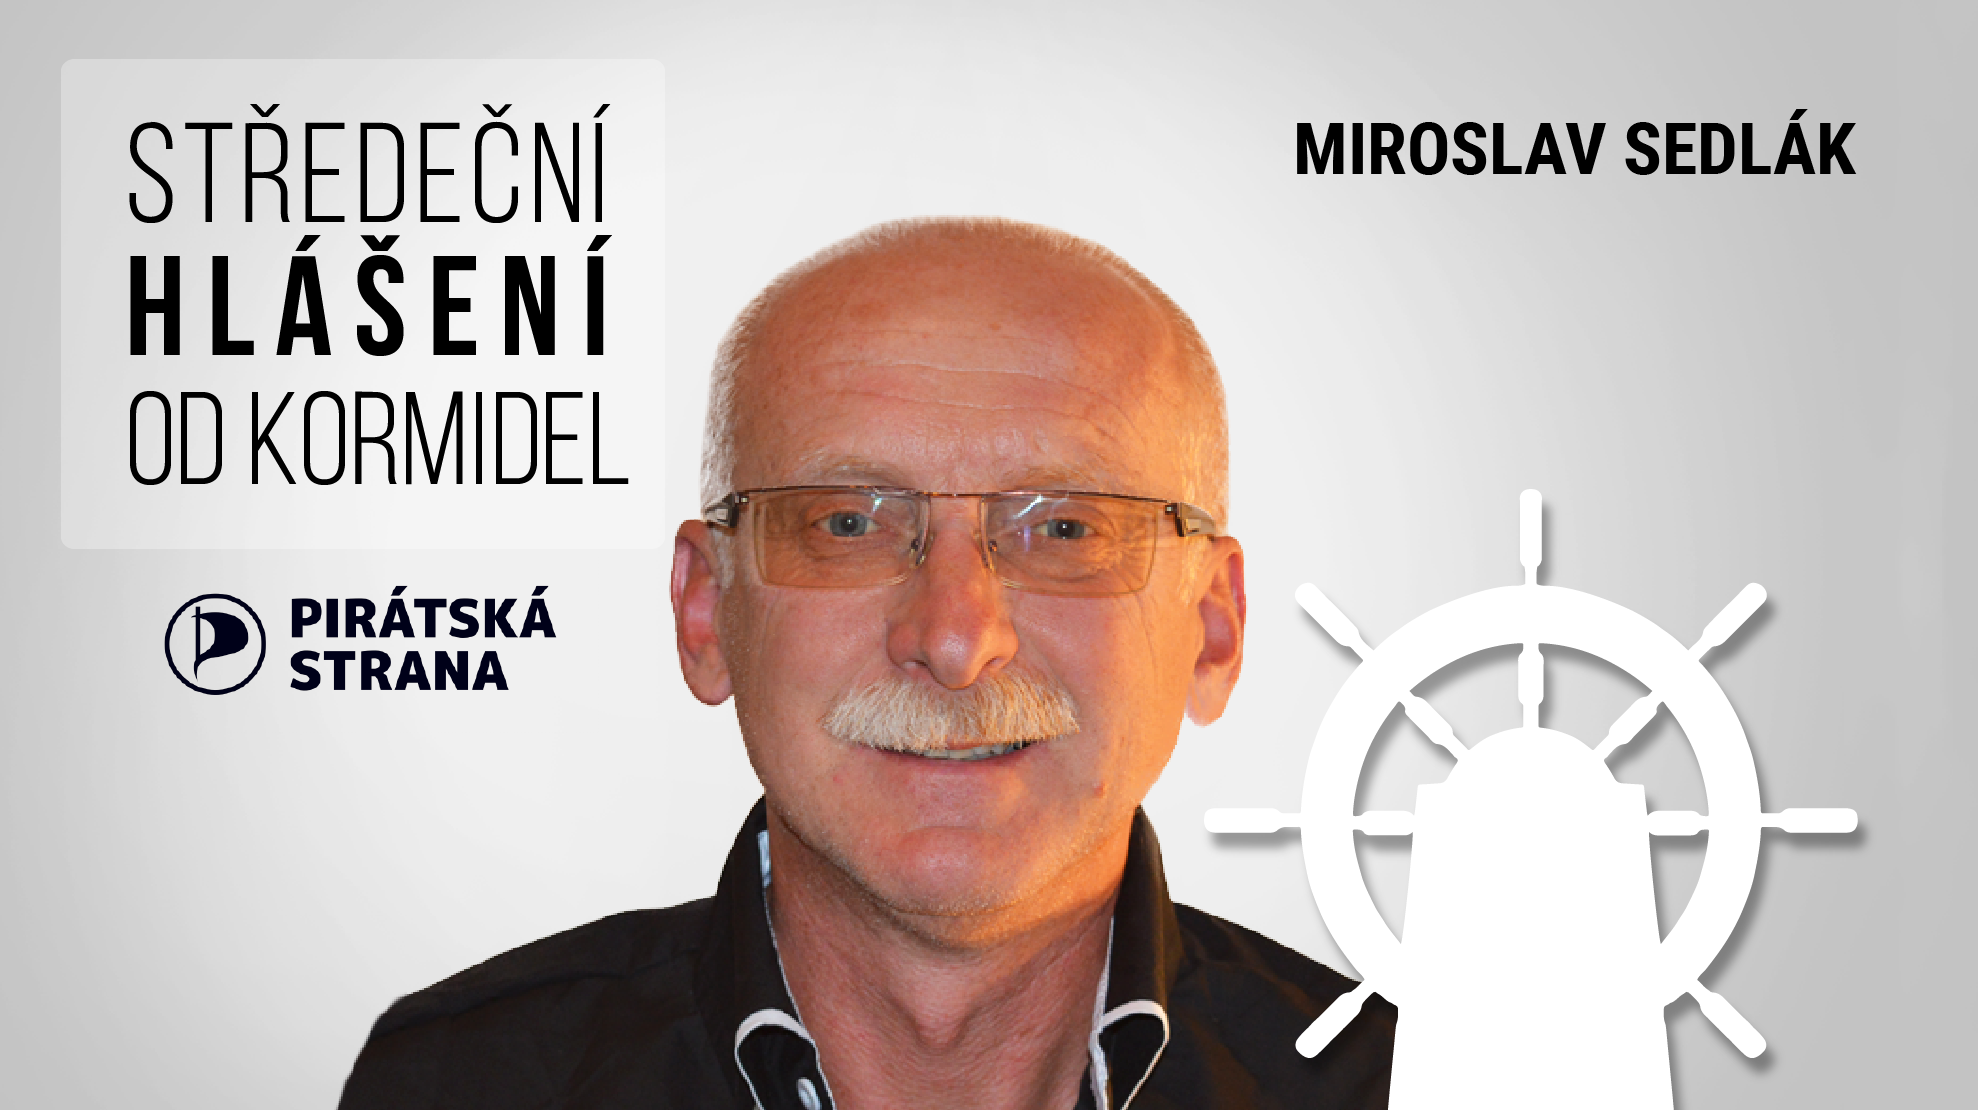
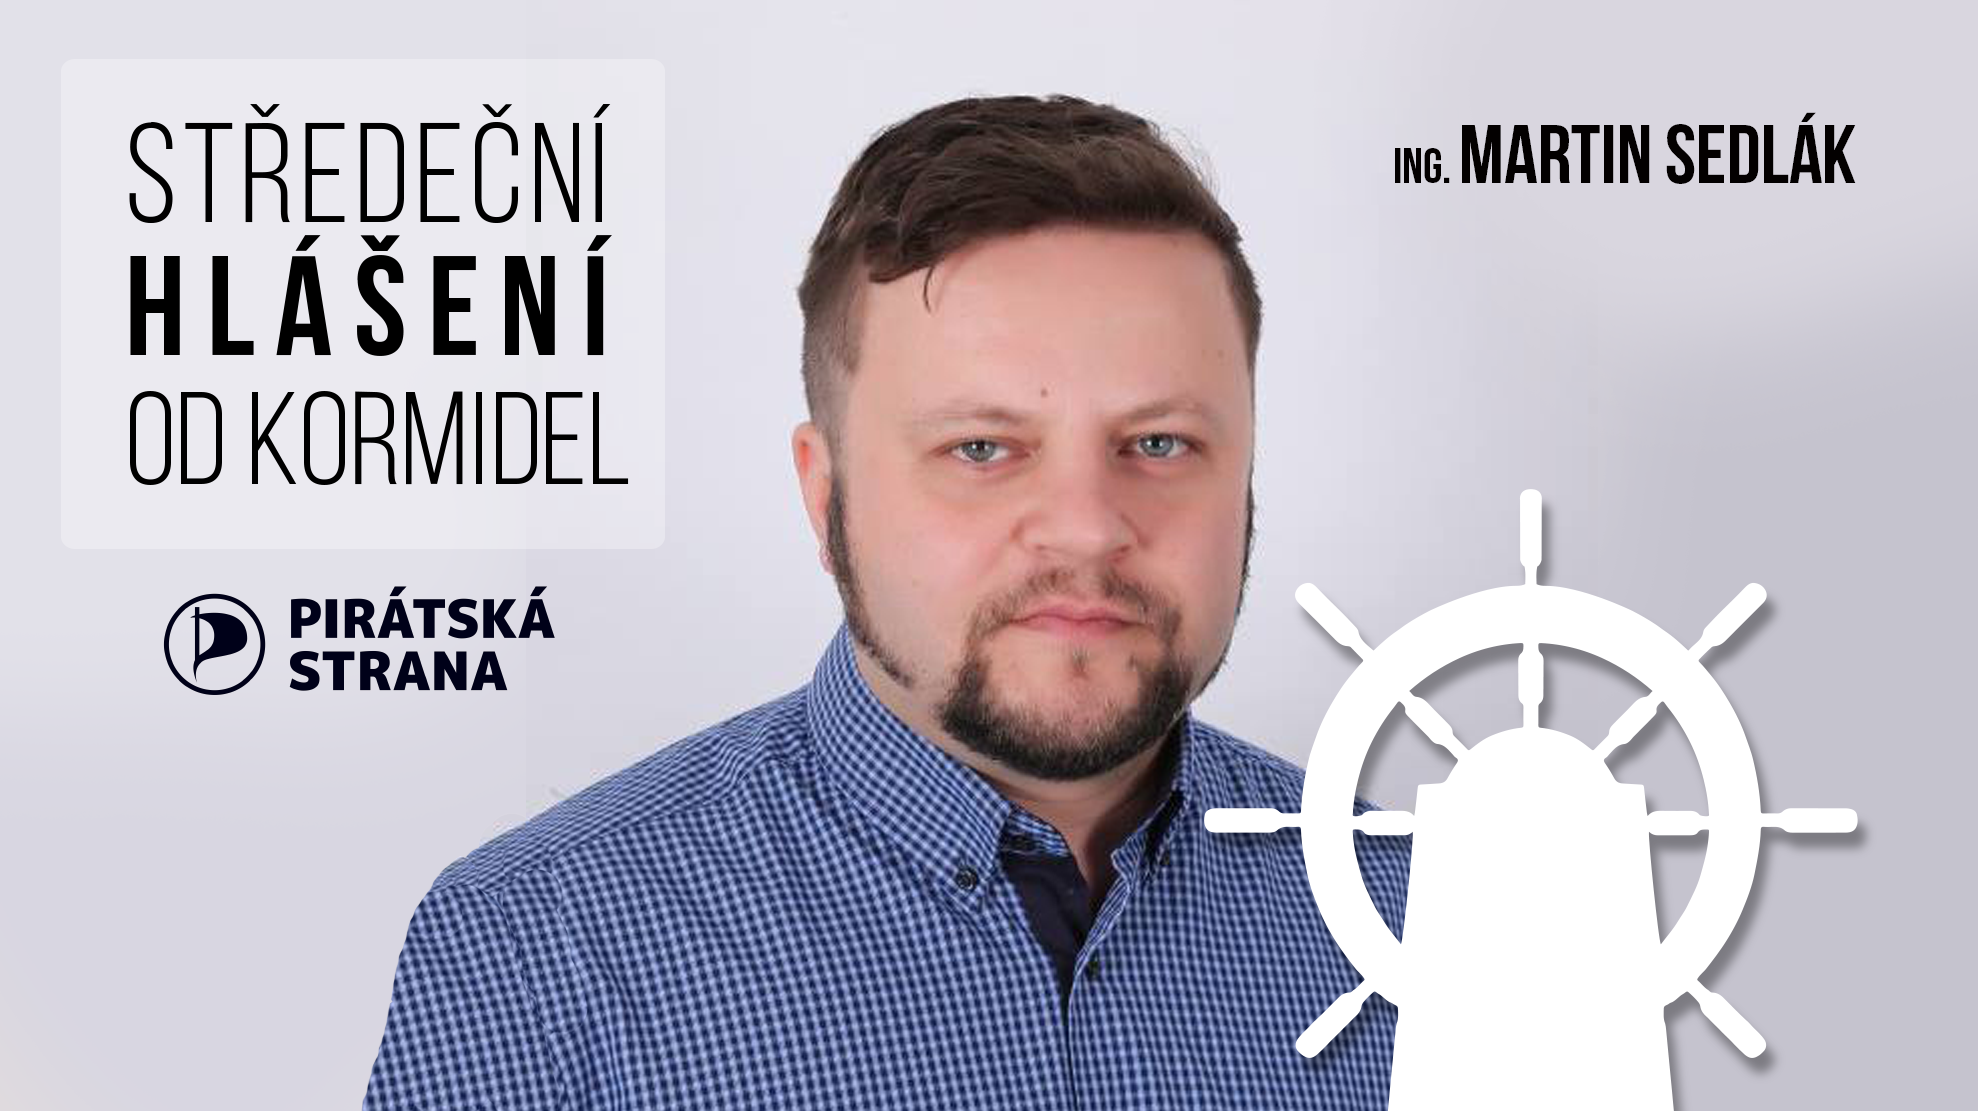
martin sedlak kormidla (#151)
* Martin Sedlák - kormidla

* martin sedlak - kormidla - obrazky

diff --git a/_posts/2019/2019-09-18-str-hlaseni-od-kormidel-martin-sedlak.md b/_posts/2019/2019-09-18-str-hlaseni-od-kormidel-martin-sedlak.md
@@ -1,0 +1,81 @@
+---
+layout: post
+category: CLANKY
+title: Martin Sedlák - Slovo politik se stalo sprostým, český národ se bojí rozhodovat sám o sobě 
+date: 2019-09-17T14:00:00+0200
+tags: 
+    - rozhovor
+    - zastupitel
+author: Piráti Pardubického kraje
+image: articles/2019/rozhovory/msedlak/msedlak1.png
+---
+**Ve volném čase je basistou v punkové kapele N.V.Ú., v pracovním životě se věnuje podnikání a je radním v Moravské Třebové. V zastupitelstvu města je jediným Pirátem v koalici. Z této pozice se zaměřuje na vytváření dostupného bydlení, podporu podnikání nebo zvýšení transparentnosti radnice. Spolu s tím stíhá pravidelně organizovat koncerty a festivaly. Více se dozvíte v rozhovoru s Martinem.**
+  
+**Jsi starý punker, hraješ na basu v kapele N.V.Ú. a ještě k tomu radní v Moravské Třebové za Piráty. To je celkem široký záběr. Kromě toho podnikáš. Máš nějaký recept, jak si zorganizovat čas a nezbláznit se?**
+
+Bohužel nemám a je to vše dohromady velmi náročné na čas a vše nelze dělat na 100%, což není ideální stav. :)
+
+**Jak se to stane, že se z koncertních pódií vrhne člověk do komunální politiky? A co bylo impulzem pro spolupráci s Českou pirátskou stranou?**
+
+To asi není úplně přesné. Ačkoli je kapela N.V.Ú. koncertně velmi vytížená, tak stále jde jen o koníček, který tak trošku přerostl v poslání. Největší podíl času logicky zabírá moje podnikání, jelikož se pohybuji v restauračním podnikání. Nedá se říci, že bych se vrhl do komunální politiky, ale spíše jsem byl osloven tehdejším lídrem, který se v našem městě pokoušel sestavit pirátskou kandidátku, což bylo i impulzem pro tuto spolupráci. ČPS jsem po očku sledoval již delší dobu a s řadou témat či názorů jsem se ztotožňoval. To rozhodnutí tedy bylo nasnadě.
+
+Moravská Třebová byla po mnoho let pod vlivem „rudooranžové“ koalice, reprezentované „starou gardou“, což se postupem času z mého pohledu negativně projevovalo i na chodu města v různých oblastech. Rozvinul se zde značný klientelismus, netransparentní výběrová řízení, město celkově začalo zaostávat za regionem, což je u MT obrovská škoda, vzhledem k její významné historii, zažíváme odliv mladých a kvalifikovaných lidí, chybí bydlení, pracovní místa pro kvalifikované, kultura na bodu mrazu apod.
+
+Osobně jsem se účastnil několika výběrových řízení a mohl jsem si to empiricky vyzkoušet na vlastní kůži. Asi to nejvýznamnější bylo VŘ na ředitele kulturních služeb, kterému jsem obětoval hodně a které jsem vyhrál u výběrové komise, ale tehdejší rada města to smetla bez rozumného vysvětlení ze stolu, aby dva roky na to mohla dosadit „za zásluhy“ radní za KSČM, jelikož můj protikandidát v této pozici neuspěl, což se dalo vzhledem k jeho kvalifikaci předpokládat.
+
+To vše bylo impulzem podpořit kandidátku ČPS v Moravské Třebové.
+
+**Jako jediný pirátský element v zastupitelstvu jsi členem vládnoucí koalice. Jak se ti vyjednává s kolegy na radnici, když prosazuješ pirátské programové priority?**
+
+Ta pozice je velmi obtížná. S jedním mandátem nezbývá než diskutovat. Nemohu říci, že by kolegové neměli pro některé z pirátských priorit uši, ale z mého pohledu není příliš přínosné prosazovat nebo prosadit jednotlivosti, ale spíše hledat koncepční řešení, což chce čas. Aktuálně se bavíme krom jiného na téma zveřejňování materiálů do zastupitelstva (což už běží), participační rozpočet (také se již rozbíhá), transparentnost výběrových řízení a zveřejňování materiálů k nim, otevřeli jsme téma klikacího rozpočtu atd.
+
+{% asset 'articles/2019/rozhovory/msedlak/msedlak4.jpg' magick:resize='751x422^' 
+magick:gravity='center' magick:crop='751x422+0+0' alt='Martin Sedlak'%}
+
+**Co bys rád, kdyby se ti podařilo ve městě do budoucna prosadit, jaké jsou tvé plány? Máš za sebou už nějaké úspěšné výsledky práce?**
+
+Druhou část otázky jsem asi popsal výše. Chod města bohužel není jednoduchou záležitostí a už vůbec ne pro nováčka v pozici neuvolněného radního. Je nutné řešit řadu palčivých záležitostí důležitých pro běžný chod města krom prosazování volebních priorit.
+
+Veškeré info mám pouze z tisků do rady města a z komunikace s dalšími radními a uředníky. Chci tím říci, že vzhledem k mé vytíženosti v rámci podnikání, kapely, festivalu a rodiny, není možné se řadou témat či oblastí, kdy řada z nich není mou parketou, zabývat podrobněji. To samozřejmě není ideální, ale čas to prostě neumožňuje. Člověk by pro město musel pracovat na plný úvazek, aby to bylo podle mých představ. Mnohem větší přehled, možnosti, čas i zodpovědnost mají uvolnění kolegové.
+
+Co se týká plánů, naše koalice vznikla na základě řady společných cílů, proto budu velmi rád, když se nám podaří prosadit společné priority, mezi které patří dostupné bydlení, lokality a startovací byty v Moravské Třebové, podpora podnikání a vznik kvalifikovaných pracovních míst, zastavení odlivu obyvatel města, oživení kultury a podpora turistického ruchu v MT, zpracování a realizace generelu dopravy, přiblížení a otevřenost radnice lidem a v neposlední řadě zlepšení hospodaření města a hledání rezerv.
+
+**Ve městě provozuješ hudební klub Duku Duku. Začátkem roku kritizovala opozice čerpání dotací na kulturu pro hudební akce v něm, protože jsi prý jako radní ve střetu zájmů. Jak to dopadlo?**
+
+Šlo o zpolitizované téma. Klub má podporu města na live vystoupení umělců téměř od začátku své existence a dokonce bývala i dvojnásobně vyšší než je tomu v současnosti, což je vzhledem k inflaci a růstu nákladů za posledních 15 let velmi smutné. Podpora města je vázána na klub a koncerty v něm, nikoli na mou osobu. Než jsem se stal radním, tak se tím vůbec nikdo nezabýval.
+
+Hlavním kulturním subjektem ve městě jsou Kulturní služby města Moravská Třebová. Bohužel tato instituce a ani město nedisponuje žádným sálem ani podobným zařízením. Klub tedy po mnoho let supluje koncertní zařízení ve městě. Historicky spolupráce s městem vznikla tak, že majitelé přišli s nabídkou profesionálně vybaveného klubu pro konání koncertů a napříč politickým spektrem v zastupitelstvu získali tuto podporu, která trvá až do nynějších dnů.
+
+Já jsem v klubu 12 let a za tu dobu jsem zde uspořádal nespočet koncertů profesionálních i regionálních kapel, čímž se kulturní služby s mnohamilionovým rozpočtem chlubit nemohou. Z mého pohledu je to nejlevnější možná varianta pro město ve smyslu pořádání koncertů na území města mimo letní sezónu (klub má profesionální zvukovou a světelnou aparaturu, koncerty si sjednáváme sami, vzhledem k mým kontaktům za úplně jiné podmínky než by dosáhly např. Kulturní služby, zajišťujeme sami pořadatelskou službu, personál, propagaci, prodej vstupenek apod.). Žádný jiný subjekt na území města nepořádá koncerty a ani neprojevil během let zájem pořádat koncerty v tomto rozsahu. Ono se není čemu divit, protože jde bohužel o značně prodělečnou záležitost. Bez nás by město už dávno přišlo o klubové koncerty. Jsem přesvědčen, že se touto činností významně podílíme na kulturním kreditu města a jde o velmi nedoceněnou činnost.
+
+{% asset 'articles/2019/rozhovory/msedlak/msedlak3.jpg' magick:resize='751x422^' 
+magick:gravity='center' magick:crop='751x422+0+0' alt='Martin Sedlak'%}
+
+**V jaké žiješ sociální bublině a jak se tví známí a rodina dívají na vývoj politické situace v ČR? Aktuálně nám zastavili stíhání Bureše a jeho rodiny…**
+
+Díky svým aktivitám bych řekl, že těch sociálních bublin je více. Ta, která mi je nejblíže, je samozřejmě kolem muziky a festivalu, který spolupořádám. Politika obecně, a to víme všichni, má velmi negativní zvuk téměř v každé sociální bublině a proto velká řada lidí, s kterými se stýkám, buď nadává, nebo politickou situaci ignoruje. Jak říká náš lídr kapely, slovo politik se stalo sprostým slovem a synonymem pro lumpa, zloděje a lháře a Bureš je dokonalým představitelem těchto slov. Je mi líto nebo mi to tak alespoň připadá, že český národ nebo jeho značná část se bojí rozhodovat sama o sobě a raději se nechá slepě vést, a to za jakoukoliv cenu či slib pseudojistot. Ono je to samozřejmě jednodušší než muset každý den o sobě a svém životě rozhodovat sám za sebe. Pravděpodobně to má velká část populace i zakódované vzhledem k minulosti a historii naší země. Jistě nemusím říkat, do kterých voličských řad tím mířím.
+
+**Jak vnímáš současnou situaci Pirátů? Preference nám podle průzkumů stále rostou, ale jsme stále limitovaní poměrně nízkou členskou základnou. Máš nějaké tipy, jak z toho ven?**
+
+Situaci pirátů vnímám pozitivně. Preference rostou, což znamená, že se daří naplňovat slíbený program či držet kurz, což utvrzuje více lidí o správnosti cesty, kterou se piráti vydali.
+
+Ohledné členské základny si myslím, že to chce čas. ČPS je stále mladou stranou a z pohledu parlamentní politiky nováčkem a bude ještě muset ujít hodně velký kus cesty bez zásadních chyb a personálních selhání lídrů či osobností na nejvyšších postech. Já jen doufám, že v nastaveném kurzu setrvá a že se pirátům podaří do budoucna vládní koalice a že se s tím dokáží poprat, protože jde o naprosto odlišnou práci než v opozici, kdy jim bezpochyby budou vráceny údery.
+
+Dalším důvodem je také poměrně složitý proces vstupu do strany, který ovšem není špatně, alespoň za mě. Líbí se mi, že ČPS nebere každého bez určitého prověření a že si tak kryje záda.
+
+**Pořádáš populární Fest Pod Parou, na kterém vystupují hlavně punk a hard core kapely. Jaké je poselství, které dnes na této scéně zaznívá. Změnilo se něco?**
+
+Změnilo se úplně vše. Festival má 17 let existence, svým kreditem dávno překročil region a i hranice České republiky. Návštěvníci jezdí z celé Evropy. Na festivalu vystupují kapely z punkrockové a hardcore světové špičky. Poselství je jasné – punkrock nemá hranice, neexistují bariéry mezi národy, svoboda a tolerance, stále více se prosazuje vegetariánství a veganství, odsouzení násilí a rasismu.
+
+Fest Pod Parou je unikátní festival, ale bohužel bojujeme s návštěvností, jelikož se může zdát, že je žánrově vyhraněný, což nás velmi limituje. Nepřidává tomu ani legislativa, která se stále mění a nesmyslně přitvrzuje, a pomalu a jistě se začínáme ztrácet v papírech a kontrolách místo toho, abychom se věnovali samotnému festivalu. Je to neskutečně ubíjející a začínat s takovou akcí bez téměř dvacetiletých zkušeností by v dnešní době bylo díky všem výše uvedeným důvodům nereálné. S těmito problémy se ale potýkají všechny obory podnikání. Čelíme stále větší buzeraci ze strany státu a nic za to.
+
+Poslední kapkou bude další vlna EET, která nás asi definitivně pohřbí. Jsme stále DIY (Do it Yourself) festival a nemůžeme si zdaleka dovolit to, co komerční festivaly. Finanční situace festivalu nám neumožňuje například pronajmout stánky s cateringem a neumím si představit pořízení pokladen na každé prodejní místo či proškolení obsluhy, jelikož i personál jsou v podstatě naši kamarádi a dobrovolníci, kteří nejsou z oboru.
+
+Velkým nepřítelem je pro nás OSA, která nás ždíme o nesmyslné poplatky, jelikož FPP je komunitní festival a většina kapel je nezastupovaných. Nevyhneme se však malému procentu zastupovaných kapel a proto si na nás tato mafiánská organizace snaží smlsnout.
+
+I toto vše jsou témata, která ČPS řeší, a proto mám k pirátům velmi blízko a bylo to důvodem k rozhodnutí o kandidatuře.
+
+Je nutné však i podotknout, že se změnili i návštěvníci festivalu. Punkeři před 17 lety byli úplně jiní než dnes, ale to je na delší povídání.
+
+{% asset 'articles/2019/rozhovory/msedlak/msedlak5.jpg' magick:resize='751x422^' 
+magick:gravity='center' magick:crop='751x422+0+0' alt='Martin Sedlak'%}
